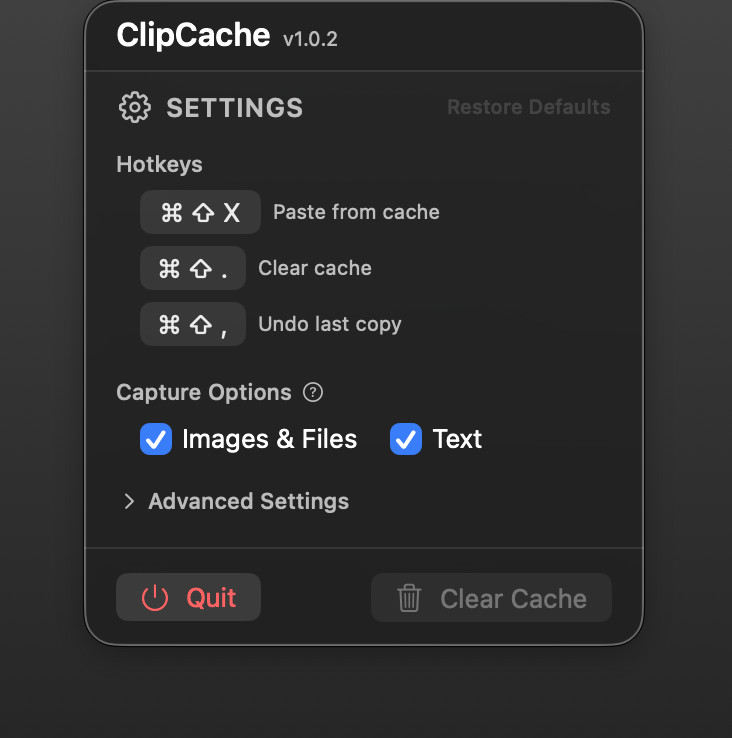
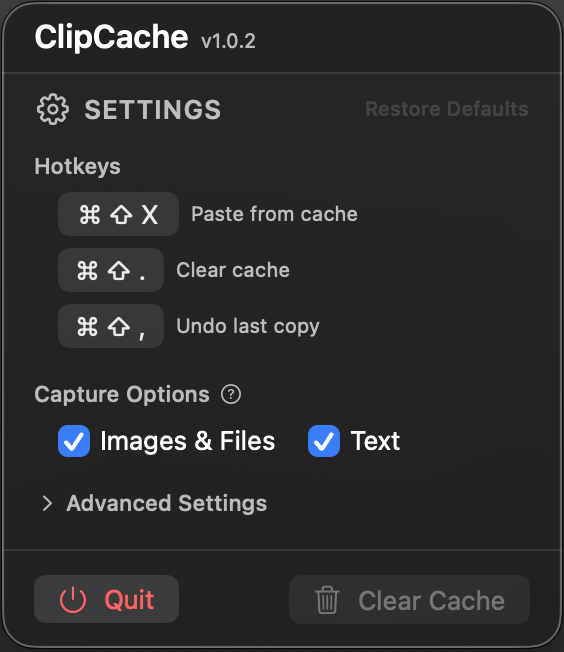
Fix text clipping issue on CTA heading - add padding and overflow-visible

diff --git a/app/page.tsx b/app/page.tsx
@@ -39,7 +39,7 @@ function InteractiveImage() {
   return (
     <motion.div
       ref={ref}
-      className="relative rounded-2xl overflow-hidden border border-gray-700/50 inline-block"
+      className="relative rounded-3xl overflow-hidden border border-gray-700/50 inline-block"
       style={{
         maxHeight: "80vh",
         transformStyle: "preserve-3d",
@@ -52,7 +52,7 @@ function InteractiveImage() {
       transition={{ type: "spring", stiffness: 300, damping: 30 }}
     >
       <img
-        src="/images/screenshot.png"
+        src="/images/screenshot1.png"
         alt="ClipCache Settings Window"
         className="h-auto object-contain pointer-events-none block"
         style={{ maxHeight: "80vh", width: "auto" }}
@@ -273,7 +273,7 @@ export default function Home() {
                 whileInView={{ opacity: 1, y: 0 }}
                 viewport={{ once: true }}
                 transition={{ duration: 0.8, ease: "easeOut" }}
-                className="text-5xl md:text-6xl font-bold mb-6 bg-gradient-to-r from-white via-gray-300 to-white bg-clip-text text-transparent"
+                className="text-5xl md:text-6xl font-bold mb-6 bg-gradient-to-r from-white via-gray-300 to-white bg-clip-text text-transparent pb-2 overflow-visible"
               >
                 Want to try it out?
               </motion.h2>
